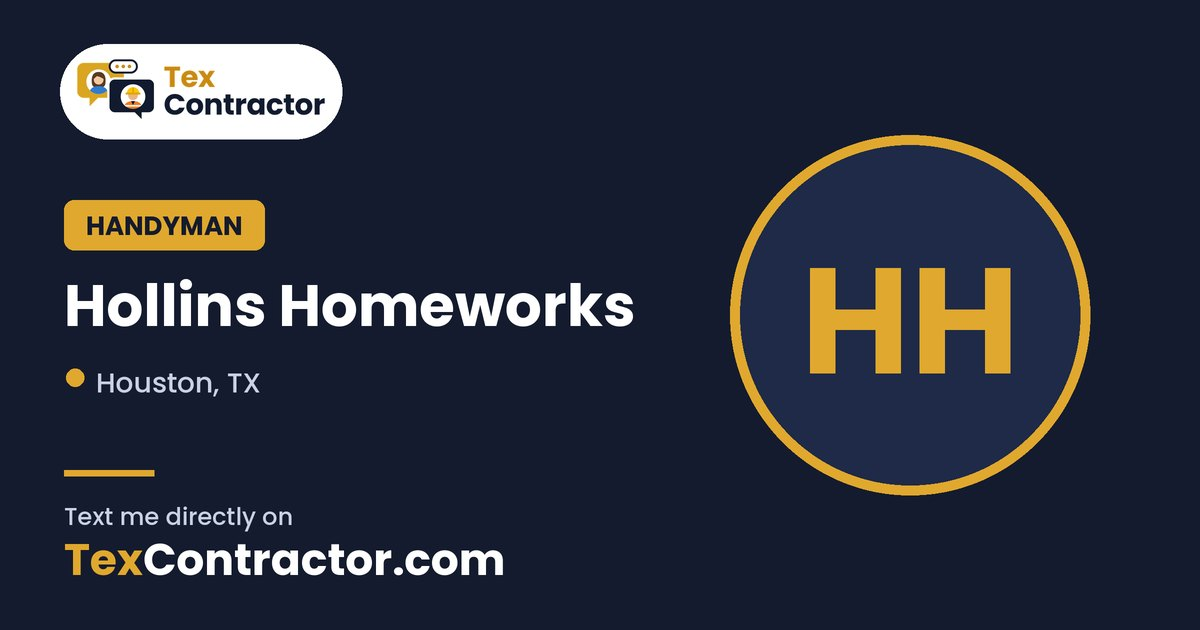
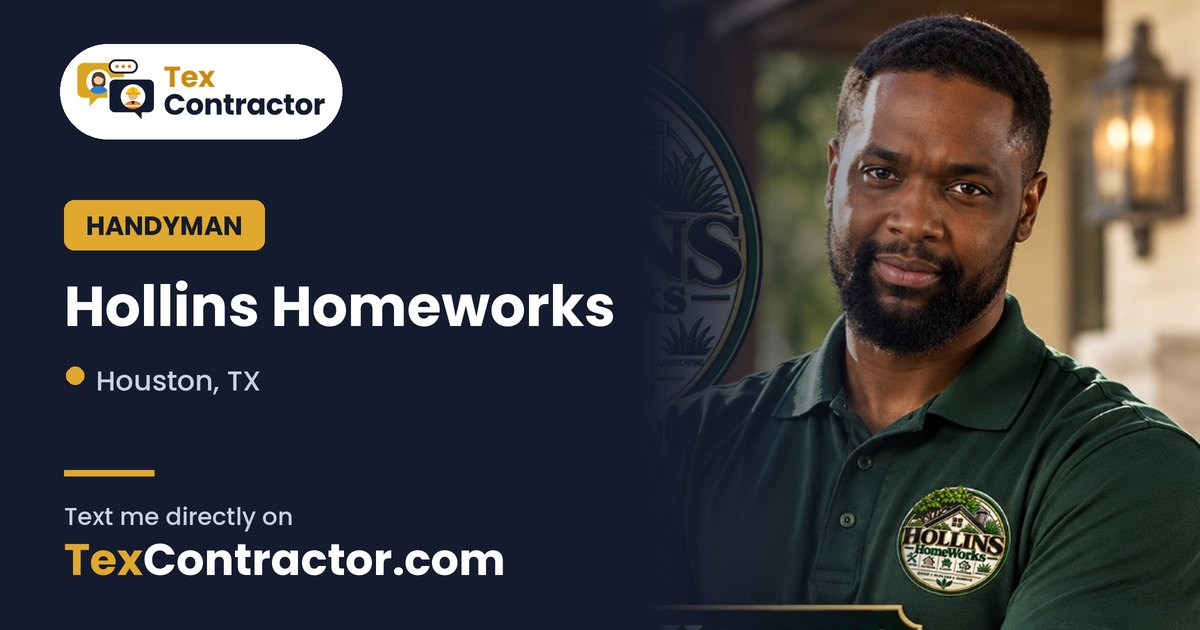
Update technician share cards

diff --git a/p/8358548d-b3ca-4563-8c21-e84896107520/index.html b/p/8358548d-b3ca-4563-8c21-e84896107520/index.html
@@ -1,0 +1,26 @@
+<!doctype html>
+<html lang="en">
+<head>
+<meta charset="utf-8">
+<meta name="viewport" content="width=device-width, initial-scale=1">
+<meta name="robots" content="noindex, follow">
+<title>Gary · Handyman</title>
+<meta name="description" content="Text Gary directly on TexContractor · Grand Prairie, TX. Free for customers.">
+<meta property="og:type" content="profile">
+<meta property="og:site_name" content="TexContractor">
+<meta property="og:title" content="Gary · Handyman">
+<meta property="og:description" content="Text Gary directly on TexContractor · Grand Prairie, TX. Free for customers.">
+<meta property="og:image" content="https://texcontractor.com/p/8358548d-b3ca-4563-8c21-e84896107520/card.jpg?v=cb6aed7f">
+<meta property="og:image:width" content="1200"><meta property="og:image:height" content="630">
+<meta property="og:url" content="https://texcontractor.com/p/8358548d-b3ca-4563-8c21-e84896107520/">
+<meta name="twitter:card" content="summary_large_image">
+<meta name="twitter:image" content="https://texcontractor.com/p/8358548d-b3ca-4563-8c21-e84896107520/card.jpg?v=cb6aed7f">
+<link rel="canonical" href="https://texcontractor.com/profile.html?contractor=8358548d-b3ca-4563-8c21-e84896107520&amp;service=Handyman">
+<link rel="icon" href="/favicon.ico">
+<script>location.replace("https://texcontractor.com/profile.html?contractor=8358548d-b3ca-4563-8c21-e84896107520&service=Handyman" + (location.search ? '&' + location.search.slice(1) : ''));</script>
+</head>
+<body style="font-family:system-ui,sans-serif;text-align:center;padding:24px">
+<p><a href="https://texcontractor.com/profile.html?contractor=8358548d-b3ca-4563-8c21-e84896107520&amp;service=Handyman"><img src="card.jpg" alt="Gary" style="max-width:100%;border-radius:12px"></a></p>
+<p><a href="https://texcontractor.com/profile.html?contractor=8358548d-b3ca-4563-8c21-e84896107520&amp;service=Handyman">Text Gary on TexContractor</a></p>
+</body>
+</html>

diff --git a/p/3ff1aca2-1a9f-4307-bba0-fbe91418f48b/index.html b/p/3ff1aca2-1a9f-4307-bba0-fbe91418f48b/index.html
@@ -10,11 +10,11 @@
 <meta property="og:site_name" content="TexContractor">
 <meta property="og:title" content="Hollins Homeworks · Handyman">
 <meta property="og:description" content="Text Hollins Homeworks directly on TexContractor · Houston, TX. Free for customers.">
-<meta property="og:image" content="https://texcontractor.com/p/3ff1aca2-1a9f-4307-bba0-fbe91418f48b/card.jpg?v=1517a994">
+<meta property="og:image" content="https://texcontractor.com/p/3ff1aca2-1a9f-4307-bba0-fbe91418f48b/card.jpg?v=d87f8f7b">
 <meta property="og:image:width" content="1200"><meta property="og:image:height" content="630">
 <meta property="og:url" content="https://texcontractor.com/p/3ff1aca2-1a9f-4307-bba0-fbe91418f48b/">
 <meta name="twitter:card" content="summary_large_image">
-<meta name="twitter:image" content="https://texcontractor.com/p/3ff1aca2-1a9f-4307-bba0-fbe91418f48b/card.jpg?v=1517a994">
+<meta name="twitter:image" content="https://texcontractor.com/p/3ff1aca2-1a9f-4307-bba0-fbe91418f48b/card.jpg?v=d87f8f7b">
 <link rel="canonical" href="https://texcontractor.com/profile.html?contractor=3ff1aca2-1a9f-4307-bba0-fbe91418f48b&amp;service=Handyman">
 <link rel="icon" href="/favicon.ico">
 <script>location.replace("https://texcontractor.com/profile.html?contractor=3ff1aca2-1a9f-4307-bba0-fbe91418f48b&service=Handyman" + (location.search ? '&' + location.search.slice(1) : ''));</script>
